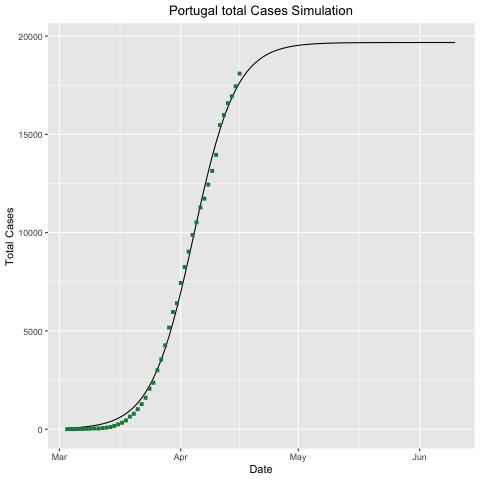
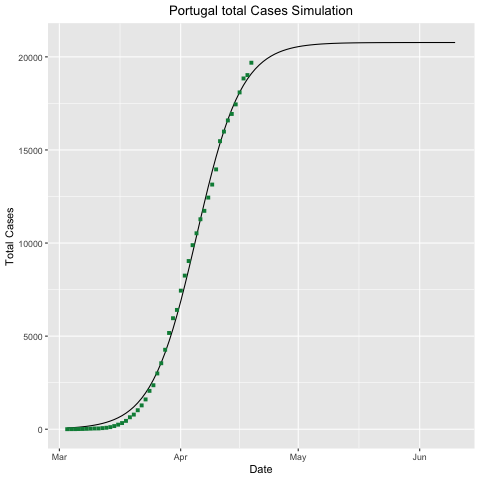
daily commit

diff --git a/README.md b/README.md
@@ -11,29 +11,31 @@ I'll keep this repo with the graphs daily updated.
 
 *Obtained with the script* `propagationMap.R`
 
-### Updated World Values - 2020/04/16
+### Updated World Values - 2020/04/19
 __Total Deaths per Country - worst 10__
 
 |geoId | deaths|
 |:-----|------:|
-|US    |  30985|
-|IT    |  21647|
-|ES    |  18579|
-|FR    |  17167|
-|UK    |  12868|
-|IR    |   4777|
-|BE    |   4440|
-|DE    |   3569|
-|CN    |   3346|
-|NL    |   3134|
+|US    |  38910|
+|IT    |  23227|
+|ES    |  20043|
+|FR    |  19323|
+|UK    |  15464|
+|BE    |   5453|
+|IR    |   5031|
+|CN    |   4636|
+|DE    |   4294|
+|NL    |   3601|
 
-__Total Death Count__: 136320
 
-__Portugal in Detail at 2020/04/16__ *sourced from https://www.worldometers.info/*
+__Total Death Count__: 159511
 
-|Country,Other |TotalCases |NewCases |TotalDeaths |NewDeaths |TotalRecovered |ActiveCases |Serious,Critical |Tot Cases/1M pop |Deaths/1M pop |TotalTests |Tests/1M pop |Continent |
-|:-------------|:----------|:--------|:-----------|:---------|:--------------|:-----------|:----------------|:----------------|:-------------|:----------|:------------|:---------|
-|Portugal      |18,841     |+750     |629         |+30       |493            |17,719      |229              |1,848            |62            |208,314    |20,430       |Europe    |
+__Portugal in Detail at 2020/04/19__ *sourced from https://www.worldometers.info/*
+
+|Country,Other |TotalCases |NewCases |TotalDeaths | NewDeaths|TotalRecovered |ActiveCases |Serious,Critical |Tot Cases/1M pop |Deaths/1M pop |TotalTests |Tests/1M pop |Continent |
+|:-------------|:----------|:--------|:-----------|---------:|:--------------|:-----------|:----------------|:----------------|:-------------|:----------|:------------|:---------|
+|Portugal      |19,685     |         |687         |        NA|610            |18,388      |228              |1,931            |67            |235,878    |23,133       |Europe    |
+
 
 
 
